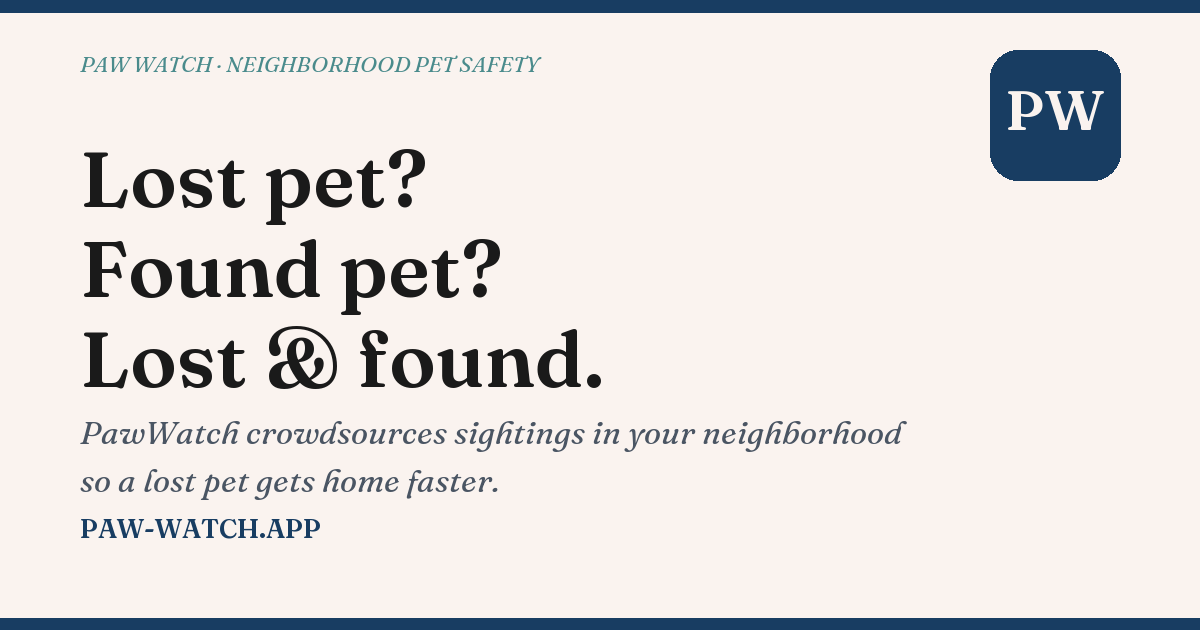
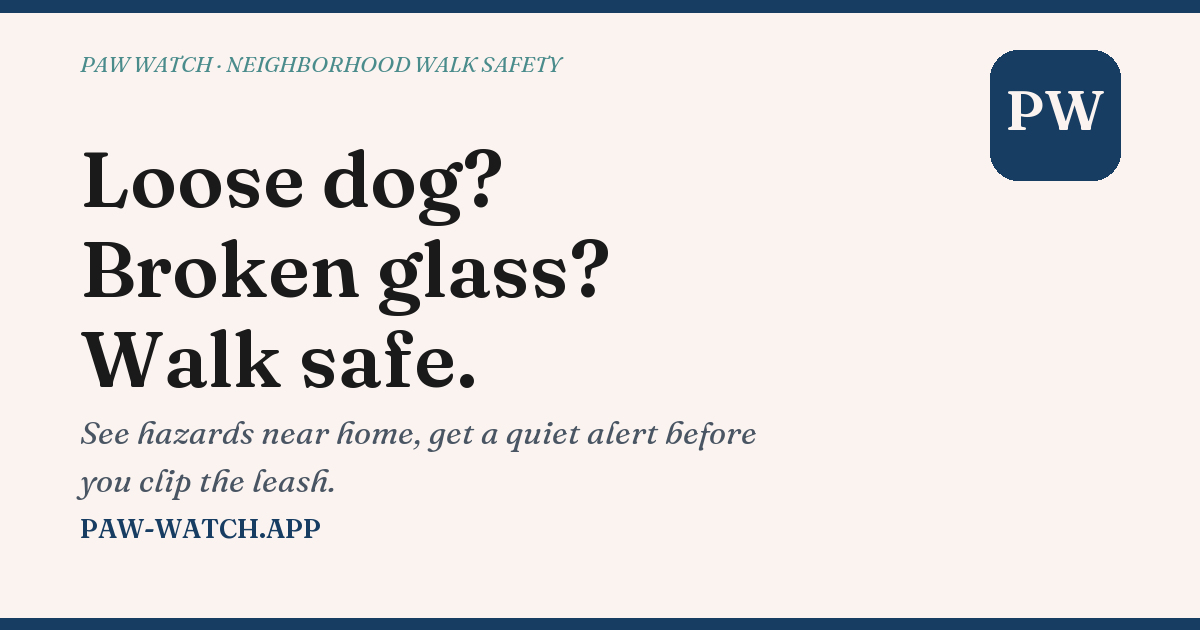
fix(site): rewrite og-image copy off lost-pet positioning
The link-preview image said 'Lost pet? / Found pet? / Lost @ found.'
with subhead 'PawWatch crowdsources sightings in your neighborhood so
a lost pet gets home faster.' Paw Watch is a hazard-map and walk
tracker, not a lost-and-found service — that copy misrepresented the
product and would mislead anyone clicking through from a social
share.

New copy uses two real hazard categories from the home page
('Loose dog? / Broken glass?') and lands on the site tagline
('Walk safe.'). Subhead describes what the app does: alerts near
home before you clip the leash. Visual cadence matches the
previous three-beat layout.

Changed region(s): [[0.0617, 0.2413, 0.5242, 0.6333], [0.0617, 0.6635, 0.7708, 0.7841], [0.3392, 0.0905, 0.4625, 0.1206]]

diff --git a/scripts/make_og.py b/scripts/make_og.py
@@ -1,5 +1,11 @@
 #!/usr/bin/env python3
-"""Regenerate pawwatch-site og-image.png \u2014 PIL + Fraunces (variable, set axis weight)."""
+"""Regenerate pawwatch-site og-image.png — PIL + Fraunces (variable, set axis weight).
+
+Positioning note: Paw Watch is a neighborhood hazard map + walk tracker for dog
+walkers, NOT a lost-and-found pet service. Copy here mirrors the live site hero
+on src/pages/home.astro ("Walk safe. Walk local.") and avoids anything that
+implies we help reunite lost pets with owners.
+"""
 from PIL import Image, ImageDraw, ImageFont
 import os, sys
 
@@ -17,7 +23,7 @@ FONT_DIR = r"C:\Users\jmcer\AppData\Local\Temp\fonts"
 FRAUNCES_VAR    = os.path.join(FONT_DIR, "Fraunces[SOFT,WONK,opsz,wght].ttf")
 FRAUNCES_ITALIC = os.path.join(FONT_DIR, "Fraunces-Italic[SOFT,WONK,opsz,wght].ttf")
 
-# Variable font \u2014 set weight axis
+# Variable font — set weight axis
 def font_600(path, size):
     f = ImageFont.truetype(path, size)
     try:
@@ -49,13 +55,16 @@ d = ImageDraw.Draw(img)
 # Top decorative rule across full width
 d.rectangle([(0, 0), (W, 12)], fill=NAVY)
 
-# Eyebrow (top, italic small caps)
+# Eyebrow (top, italic small caps) — matches the live site's hero eyebrow
 f_eyebrow = font_reg_italic(FRAUNCES_ITALIC, 22)
-d.text((80, 50), "PAW WATCH \u00b7 NEIGHBORHOOD PET SAFETY", font=f_eyebrow, fill=TEAL)
+d.text((80, 50), "PAW WATCH \u00b7 NEIGHBORHOOD WALK SAFETY", font=f_eyebrow, fill=TEAL)
 
-# H1 \u2014 measure first, then wrap to fit. Aim for max \u2248880px wide.
+# H1 — three-beat: two real hazard categories + the tagline.
+# Mirrors the previous "Lost pet? / Found pet? / Lost & found." rhythm so the
+# visual cadence stays identical, but the words now describe what the app
+# actually does. Categories copied verbatim from the home.astro feature copy.
 f_h1 = font_600(FRAUNCES_VAR, 78)
-h1_lines = ["Lost pet?", "Found pet?", "Lost & found."]  # playful three-beat
+h1_lines = ["Loose dog?", "Broken glass?", "Walk safe."]
 y = 130
 for line in h1_lines:
     bbox = d.textbbox((0, 0), line, font=f_h1)
@@ -64,22 +73,22 @@ for line in h1_lines:
     d.text((80, y), line, font=f_h1, fill=INK)
     y += 90  # ~1.15x font size for line height
 
-# Subhead (italic, muted)
+# Subhead (italic, muted) — describes the product accurately. Echoes the
+# hero lede on home.astro without copying it word-for-word.
 f_sub = font_reg_italic(FRAUNCES_ITALIC, 32)
 sub_y = y + 12
-d.text((80, sub_y), "PawWatch crowdsources sightings in your neighborhood", font=f_sub, fill=INK_SOFT)
-d.text((80, sub_y + 48), "so a lost pet gets home faster.", font=f_sub, fill=INK_SOFT)
+d.text((80, sub_y), "See hazards near home, get a quiet alert before", font=f_sub, fill=INK_SOFT)
+d.text((80, sub_y + 48), "you clip the leash.", font=f_sub, fill=INK_SOFT)
 
 # URL footer (italic, navy)
 f_url = font_600(FRAUNCES_VAR, 26)
 d.text((80, sub_y + 48 + 52), "PAW-WATCH.APP", font=f_url, fill=NAVY)
 
-# Brand mark (top-right) \u2014 navy rounded square + cream paw print
+# Brand mark (top-right) — navy rounded square + cream PW wordmark
 mark_size, mark_radius = 130, 28
 mx, my = W - 80 - mark_size, 50
 d.rounded_rectangle((mx, my, mx + mark_size, my + mark_size),
                     radius=mark_radius, fill=NAVY)
-# paw emoji won't render in PIL on bare windows. Use a simple "PW" wordmark:
 f_pw = font_600(FRAUNCES_VAR, 56)
 bbox = d.textbbox((0, 0), "PW", font=f_pw)
 pw_w, pw_h = bbox[2] - bbox[0], bbox[3] - bbox[1]
@@ -90,7 +99,7 @@ d.text((mx + (mark_size - pw_w) // 2 - bbox[0],
 # Bottom rule (mirror top)
 d.rectangle([(0, H - 12), (W, H)], fill=NAVY)
 
-# --- save (script-relative path \u2014 see skill pitfall #2) ---
+# --- save (script-relative path — see skill pitfall #2) --
 out = os.path.join(os.path.dirname(__file__), "..", "public", "og-image.png")
 out = os.path.normpath(out)
 os.makedirs(os.path.dirname(out), exist_ok=True)
